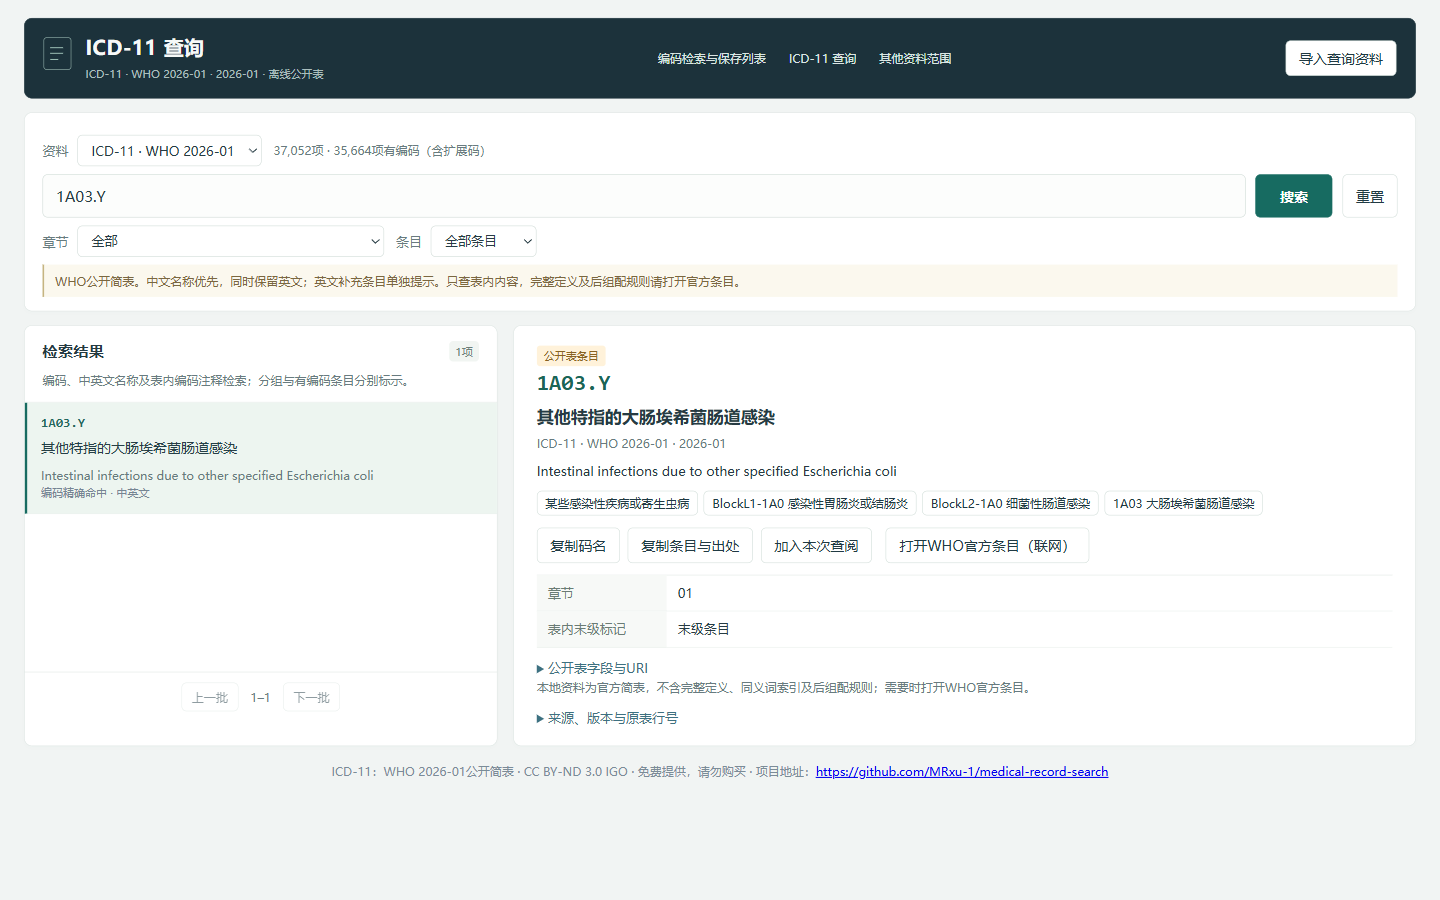
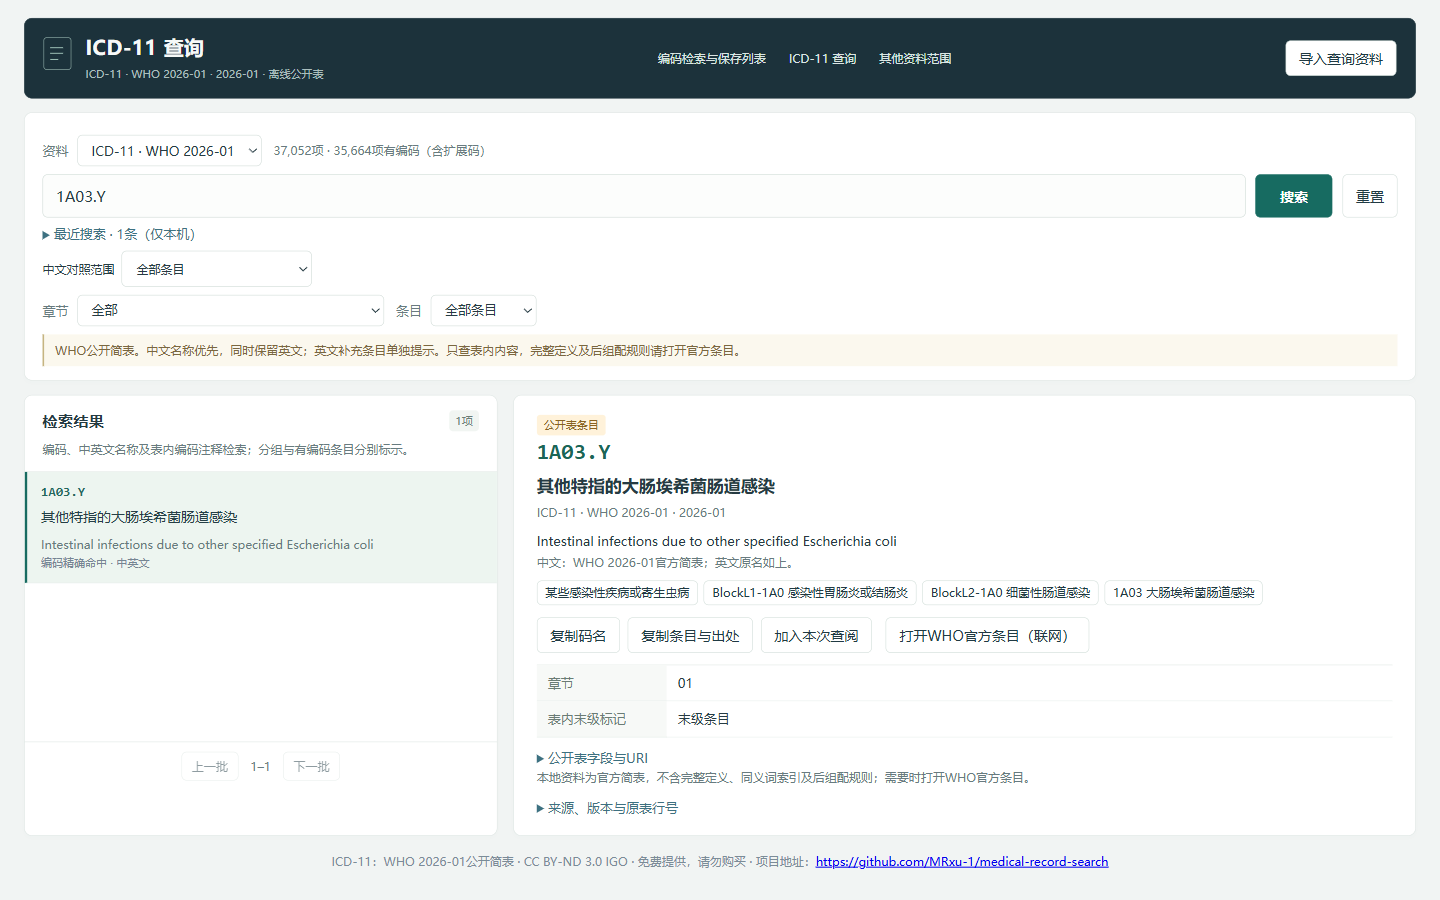
docs: expand module guide and credit 深大阿宗; release 0.5.0

diff --git a/README.md b/README.md
@@ -1,19 +1,19 @@
 # 病案编码快捷检索
 
-病案编码快捷检索是一款面向病案编码、病案管理与编码学习场景的 Windows 离线工具。提供**诊断编码检索、手术操作编码检索、灰码标记与差异查阅、WHO ICD-11 中英文简表查询、本次查阅与常用收藏、条目备注、固定参照、码名及依据复制、JSON 备份导入导出**等功能。**0.4.0新增三类速查附表和18张开放图解，随包可离线使用。另保留主导词路径、分类正文及ICD-O-4肿瘤形态学／部位／变更查询界面，使用者导入自有资料后启用；这些可选资料不随公开下载包分发。**
+病案编码快捷检索是一款面向病案编码、病案管理与编码学习场景的 Windows 离线工具。提供**诊断编码检索、手术操作编码检索、灰码标记与差异查阅、WHO ICD-11 中英文简表查询、本次查阅与常用收藏、条目备注、固定参照、码名及依据复制、JSON 备份导入导出**等功能。**0.5.0新增常见称呼／写法辅助、最近搜索和有来源的中文参考对照；三类速查附表及18张开放图解继续随包可离线使用。另保留主导词路径、分类正文及ICD-O-4肿瘤形态学／部位／变更查询界面，使用者导入自有资料后启用；这些可选资料不随公开下载包分发。**
 
 支持按编码、中文名称、多关键词和拼音首字母查找；连续中文全词无结果时，还可按字序补充查找并注明命中原因。候选列表和条目详情并列显示，方便查找码名、核对编码原文与资料版本、整理日常查阅记录。
 
 **作者：深大阿宗。免费提供，请勿购买。** 无需账号，检索与个人保存可离线使用；打开官方参考网站时需要联网。
 
-**当前版本：0.4.0（2026-10-26），公开发行版。暂不公开独立源码工程。**
+**当前版本：0.5.0（2026-10-26），公开发行版。暂不公开独立源码工程。**
 
 项目名称：病案编码快捷检索  
 官方项目网址：https://github.com/MRxu-1/medical-record-search
 
 ## 下载与运行
 
-打开本项目 **[最新版本下载](https://github.com/MRxu-1/medical-record-search/releases/latest)**，下载 `medical-record-search-v0.4.0-win-x64.zip`。完整解压后双击 `病案编码快捷检索.exe`，保留旁边的 DLL 与“程序资源”文件夹。不要下载 GitHub 自动生成的“Source code”压缩包来运行，那只是本仓库说明文件的快照。
+打开本项目 **[最新版本下载](https://github.com/MRxu-1/medical-record-search/releases/latest)**，下载 `medical-record-search-v0.5.0-win-x64.zip`。完整解压后双击 `病案编码快捷检索.exe`，保留旁边的 DLL 与“程序资源”文件夹。不要下载 GitHub 自动生成的“Source code”压缩包来运行，那只是本仓库说明文件的快照。
 
 需要 Windows 10/11 64 位、.NET Framework 4.6.2 或以上，以及 [Microsoft Edge WebView2 Runtime](https://developer.microsoft.com/microsoft-edge/webview2/)；运行环境未捆绑。检索可离线使用，官方参考网站需要主动联网。未测试所有 Windows 10/11 环境。
 
@@ -88,3 +88,6 @@
 ![速查附表](images/quick-tables.png)
 
 ![开放手术图解](images/surgery-illustrations.png)
+
+0.5.0新增常见称呼／写法辅助和最近搜索。原词命中优先，别名补充标明原因，不改原码原名；可关闭辅助。点击搜索、Enter或选结果才记录，目录及官方表各保留最近8次，仅存本机，可清空，不混入收藏备份。
+ICD-11官方中英文名称继续并列并支持语言范围筛选；ICD-O中文参考独立标源，来自WHO ICD-11同名术语或旧中文目录同码记录，不是IARC官方译名，不自动换码；无参考时保留英文。DRG及试分组明确排除，不纳入本工具。

diff --git a/CHANGELOG.md b/CHANGELOG.md
@@ -1,8 +1,8 @@
 # 更新记录
 
-0.4.0 · 2026-10-26 · 公开发行版
+0.5.0 · 2026-10-26 · 公开发行版
 作者：深大阿宗。软件首页、关于、功能介绍和GitHub首页加入中文作者署名；仓库简介与首页扩充各功能模块及查询示例。
-新增自有EXE符号／字符串隐藏、十二个应用脚本标识符／字符串混淆，关闭窗口开发者工具；映射表、调试符号、源码映射及构建工具不随包发送。数据包不混淆。
+新增自有EXE符号／字符串隐藏、十五个应用脚本标识符／字符串混淆，关闭窗口开发者工具；映射表、调试符号、源码映射及构建工具不随包发送。数据包不混淆。
 基于0.2.0对外测试版，保留统一界面、诊断与手术、灰码、保存复制和ICD-11公开简表。
 本包不附再分发范围尚未确认的主导词路径、中文分类正文、ICD-O-4整表；WHO ICD-10 2019旧包未保留完整URI，本轮也不附。
 未附原书PDF、OCR、个人记录、原Excel、研究材料、源码工程、构建脚本及Git历史。
@@ -14,3 +14,6 @@
 
 0.4.0新增速查附表与开放图解：抗肿瘤药物122行、人工骨34行、神经刺激器29行，支持筛选、字体调整、条目复制和CSV导出。历史条目未逐项核验，8行按外部来源修订并保留原文待复审。人工骨的原表参考码不会自动填入编码。
 新增18张NIDDK开放媒体库原图，逐张保留署名、来源、许可和原始散列；未使用朋友软件自带的图片。手术详情按名称主题关联，不把图解当作编码一一对应。图片可离线查阅，联网打开来源需用户主动点击。并非原87项配图的全量替换。
+
+0.5.0新增常见称呼／写法辅助和最近搜索。原词命中优先，别名补充标明原因，不改原码原名；可关闭辅助。点击搜索、Enter或选结果才记录，目录及官方表各保留最近8次，仅存本机，可清空，不混入收藏备份。
+ICD-11官方中英文名称继续并列并支持语言范围筛选；ICD-O中文参考独立标源，来自WHO ICD-11同名术语或旧中文目录同码记录，不是IARC官方译名，不自动换码；无参考时保留英文。DRG及试分组明确排除，不纳入本工具。
